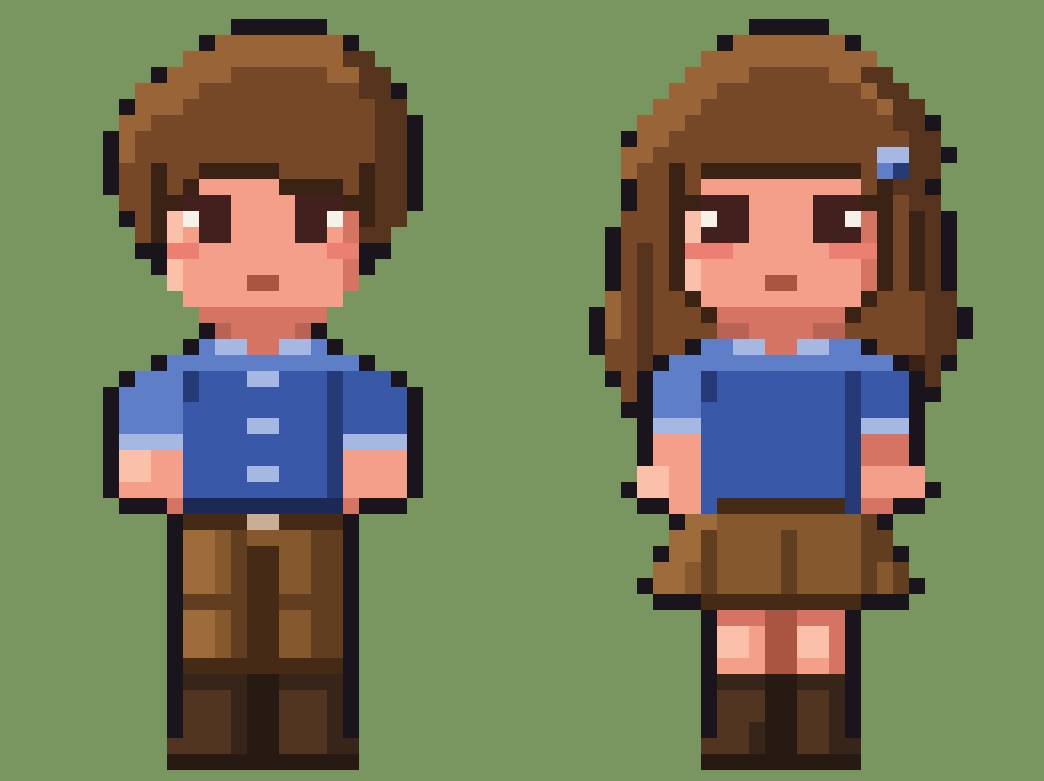
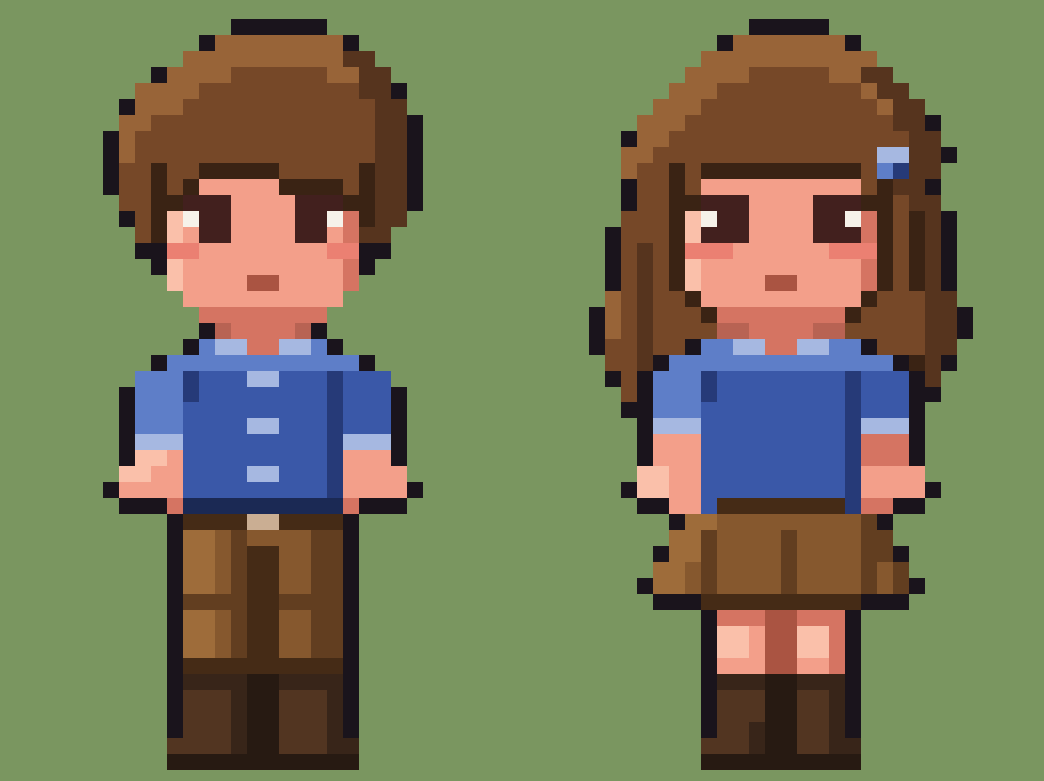
남자 어깨를 여자와 같은 구조로
20칸으로 곧장 벌리니 어깨가 상자였다. 여자와 같게 몸통·팔은 18칸으로
두고 손끝에서만 20칸으로 불룩해지게 했다. 왼팔도 네 칸에서 세 칸으로
줄여 소매 비율을 맞췄다.

Claude-Session: https://claude.ai/code/session_01MD13E75HPivDdRkjb6eaTR

Changed region(s): [[0.092, 0.4609, 0.1533, 0.6146], [0.3678, 0.4609, 0.4291, 0.6146]]

diff --git a/game/assets/ref/wf/f32e.py b/game/assets/ref/wf/f32e.py
@@ -254,8 +254,10 @@ def build_boy():
     # 목은 20줄 한 줄뿐. 21줄부터 바로 어깨가 벌어진다 (전에는 21줄이
     # 좁은 깃이라 목이 두 줄로 길어 보였다). 어깨 폭은 18 → 20 칸
     BODY = {21: (10, 21), 22: (8, 23)}
-    for y in range(23, 32):
-        BODY[y] = (6, 25)
+    for y in range(23, 29):
+        BODY[y] = (7, 24)
+    for y in range(29, 32):
+        BODY[y] = (6, 25)          # 손끝만 벙어리장갑처럼 불룩
     BODY[32] = (10, 21)
     for y in range(33, 46):
         BODY[y] = (10, 21)
@@ -270,7 +272,7 @@ def build_boy():
     hfill(g, 21, 11, 20, 'T')      # 어깨 뚜껑 — 빛을 정면으로 받는 면
     hfill(g, 22, 9, 22, 'T')       # 두 줄을 깔고 그 아래에서 팔만 남긴다
     for y in range(23, 28):
-        hfill(g, y, 7, 10, 'T')    # 왼팔 (네 칸으로 도톰하게)
+        hfill(g, y, 8, 10, 'T')    # 왼팔
     for y in range(23, 32):        # 오른팔 이음선 한 줄 (오른팔 색은 몸통과 같다)
         swap(g, 20, y, 't', 'y')
     for y in (23, 24):             # 왼쪽 겨드랑이 주름
@@ -279,13 +281,15 @@ def build_boy():
     hfill(g, 21, 13, 14, 'U')
     hfill(g, 21, 17, 18, 'U')
     hfill(g, 21, 15, 16, 'S')
-    hfill(g, 27, 7, 10, 'U')       # 걷어올린 소맷단
-    hfill(g, 27, 21, 24, 'U')
+    hfill(g, 27, 8, 10, 'U')       # 걷어올린 소맷단
+    hfill(g, 27, 21, 23, 'U')
     # 손
-    for y in range(28, 32):
+    hfill(g, 28, 8, 10, 's')
+    hfill(g, 28, 21, 23, 's')
+    for y in range(29, 32):
         hfill(g, y, 7, 10, 's')
         hfill(g, y, 21, 24, 's')
-    hfill(g, 28, 7, 8, 'l')
+    hfill(g, 28, 8, 9, 'l')
     hfill(g, 29, 7, 8, 'l')
     hfill(g, 31, 7, 10, 'S')
     hfill(g, 31, 21, 24, 'S')
